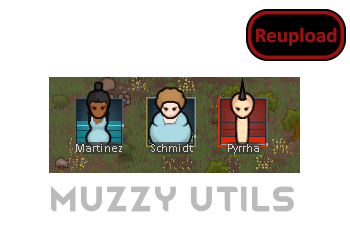
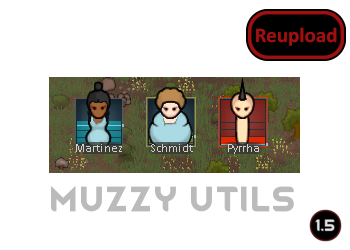
Mod updated for 1.5 and passed autotests

Changed region(s): [[0.8857, 0.84, 1.0, 0.98]]

diff --git a/Source/MuzzyUtils/ColonistBarColonistDrawer_DrawColonist_Patch.cs b/Source/MuzzyUtils/ColonistBarColonistDrawer_DrawColonist_Patch.cs
@@ -49,15 +49,16 @@ public class ColonistBarColonistDrawer_DrawColonist_Patch
         if (mood != null && mentalBreaker != null)
         {
             var moodBorderRect = rect.ContractedBy(-1f);
-            if (mood.CurLevelPercentage <= mentalBreaker.BreakThresholdExtreme)
+            var currentMood = mood.CurLevelPercentage;
+            if (currentMood <= mentalBreaker.BreakThresholdExtreme)
             {
                 GUI.DrawTexture(moodBorderRect, Main.MoodExtremeCrossedTex);
             }
-            else if (mood.CurLevelPercentage <= mentalBreaker.BreakThresholdMajor)
+            else if (currentMood <= mentalBreaker.BreakThresholdMajor)
             {
                 GUI.DrawTexture(moodBorderRect, Main.MoodMajorCrossedTex);
             }
-            else if (mood.CurLevelPercentage <= mentalBreaker.BreakThresholdMinor)
+            else if (currentMood <= mentalBreaker.BreakThresholdMinor)
             {
                 GUI.DrawTexture(moodBorderRect, Main.MoodMinorCrossedTex);
             }
@@ -65,7 +66,7 @@ public class ColonistBarColonistDrawer_DrawColonist_Patch
             GUI.DrawTexture(rect, ColonistBar.BGTex);
             var moodRect = rect.ContractedBy(2f);
             var position = moodRect;
-            var num = position.height * colonist.needs.mood.CurLevelPercentage;
+            var num = position.height * currentMood;
             position.yMin = position.yMax - num;
             position.height = num;
 
@@ -148,13 +149,13 @@ public class ColonistBarColonistDrawer_DrawColonist_Patch
             : Find.Selector.SelectedObjects.Contains(colonist);
         if (isColonistSelected && !WorldRendererUtility.WorldRenderedNow)
         {
-            Main.drawSelectionOverlayOnGUIMethod.Invoke(__instance, new object[] { colonist, rect2 });
+            Main.drawSelectionOverlayOnGUIMethod.Invoke(__instance, [colonist, rect2]);
         }
         else if (WorldRendererUtility.WorldRenderedNow && colonist.IsCaravanMember() &&
                  Find.WorldSelector.IsSelected(colonist.GetCaravan()))
         {
             Main.drawCaravanSelectionOverlayOnGUIMethod.Invoke(__instance,
-                new object[] { colonist.GetCaravan(), rect2 });
+                [colonist.GetCaravan(), rect2]);
         }
 
         var pawnTexturePosition = __instance.GetPawnTextureRect(new Vector2(rect.x, rect.y));
@@ -163,7 +164,7 @@ public class ColonistBarColonistDrawer_DrawColonist_Patch
             Rot4.South,
             ColonistBarColonistDrawer.PawnTextureCameraOffset, 1.28205f));
         GUI.color = new Color(1f, 1f, 1f, entryRectAlpha * 0.8f);
-        Main.drawIconsMethod.Invoke(__instance, new object[] { rect, colonist });
+        Main.drawIconsMethod.Invoke(__instance, [rect, colonist]);
         GUI.color = color;
 
         if (colonist.Dead)

diff --git a/Source/MuzzyUtils/Main.cs b/Source/MuzzyUtils/Main.cs
@@ -53,13 +53,13 @@ public class Main
         harmony.PatchAll(Assembly.GetExecutingAssembly());
 
         drawSelectionOverlayOnGUIMethod = typeof(ColonistBarColonistDrawer).GetMethod("DrawSelectionOverlayOnGUI",
-            BindingFlags.Instance | BindingFlags.NonPublic, null, new[] { typeof(Pawn), typeof(Rect) }, null);
+            BindingFlags.Instance | BindingFlags.NonPublic, null, [typeof(Pawn), typeof(Rect)], null);
         drawCaravanSelectionOverlayOnGUIMethod = typeof(ColonistBarColonistDrawer).GetMethod(
             "DrawCaravanSelectionOverlayOnGUI",
-            BindingFlags.Instance | BindingFlags.NonPublic, null, new[] { typeof(Caravan), typeof(Rect) }, null);
+            BindingFlags.Instance | BindingFlags.NonPublic, null, [typeof(Caravan), typeof(Rect)], null);
         drawIconsMethod = typeof(ColonistBarColonistDrawer).GetMethod("DrawIcons",
             BindingFlags.Instance | BindingFlags.NonPublic,
-            null, new[] { typeof(Rect), typeof(Pawn) }, null);
+            null, [typeof(Rect), typeof(Pawn)], null);
         deadColonistTexField = typeof(ColonistBarColonistDrawer).GetField("DeadColonistTex",
             BindingFlags.Static | BindingFlags.NonPublic);
         pawnLabelsCacheField = typeof(ColonistBarColonistDrawer).GetField("pawnLabelsCache",

diff --git a/README.md b/README.md
@@ -24,11 +24,13 @@ Ludeon forum thread for the mod (with link to non-Steam version): https://ludeon
 
 -  See if the the error persists if you just have this mod and its requirements active.
 -  If not, try adding your other mods until it happens again.
--  Post your error-log using https://steamcommunity.com/workshop/filedetails/?id=818773962]HugsLib and command Ctrl+F12
+-  Post your error-log using https://steamcommunity.com/workshop/filedetails/?id=818773962]HugsLib or the standalone https://steamcommunity.com/sharedfiles/filedetails/?id=2873415404]Uploader and command Ctrl+F12
 -  For best support, please use the Discord-channel for error-reporting.
 -  Do not report errors by making a discussion-thread, I get no notification of that.
 -  If you have the solution for a problem, please post it to the GitHub repository.
+-  Use https://github.com/RimSort/RimSort/releases/latest]RimSort to sort your mods
 
 
 
+https://steamcommunity.com/sharedfiles/filedetails/changelog/2434621881]![Image](https://img.shields.io/github/v/release/emipa606/MuzzyUtils?label=latest%20version&style=plastic&color=9f1111&labelColor=black)
 
